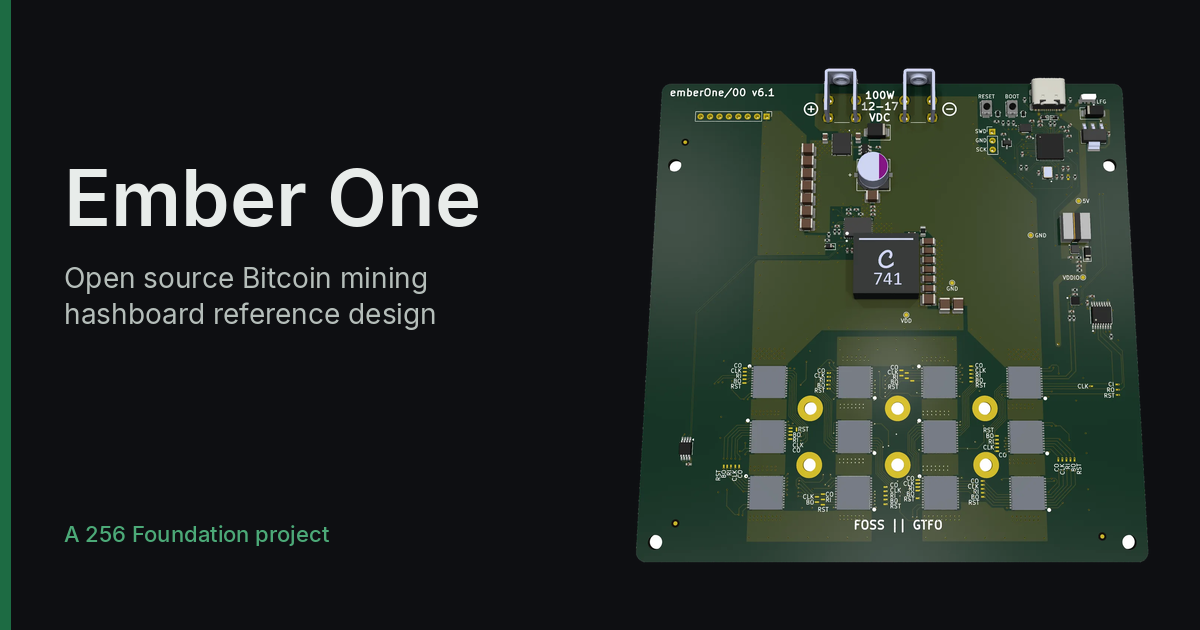
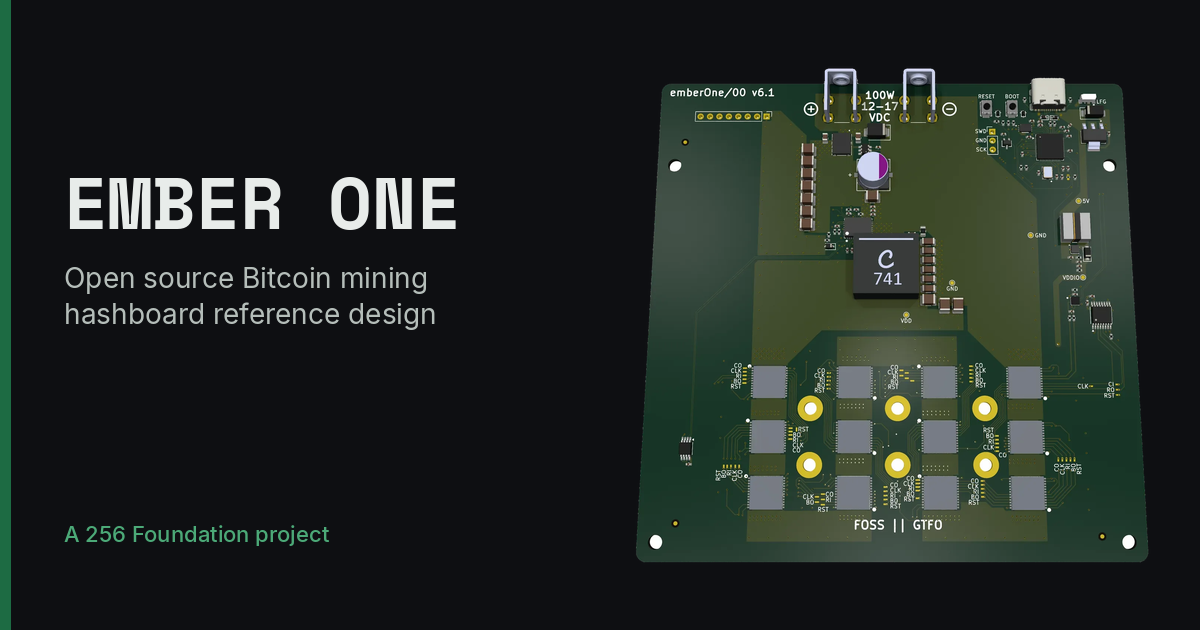
style: set the project name to EMBER ONE in titles
Use the uppercase name in the hero, the nav title, headings,
the document title, and the social card. Running prose keeps
"Ember One".

Changed region(s): [[0.0617, 0.2714, 0.4008, 0.3619]]

diff --git a/.vitepress/theme/custom.css b/.vitepress/theme/custom.css
@@ -70,11 +70,9 @@
   --ember-hero-tint: rgba(76, 170, 120, 0.08);
 }
 
-/* Wordmark: Space Mono Bold on the hero name only. "Ember One"
-   is longer than a one-word name, so the size stays under the
-   width of the text column. Tracking stays at the font's own
-   rhythm; the face is monospace and does not want Inter's tight
-   tracking. */
+/* Wordmark: Space Mono Bold on the hero name only. The text is
+   "EMBER ONE", not a CSS transform, so the same casing is in the
+   HTML. Tracking stays at the font's own rhythm. */
 .VPHome .VPHero .name.clip {
   font-family: "Space Mono", ui-monospace, SFMono-Regular, Menlo, monospace;
   font-weight: 700;

diff --git a/AGENTS.md b/AGENTS.md
@@ -75,7 +75,9 @@ in the design repos.
 - Status is plain declaratives, a "current as of" date, and no
   promised dates.
 - The words "honest" and "honestly" do not appear in site copy.
-- Spell the project "Ember One" and the board "EmberOne/00".
+- Spell the project "EMBER ONE" in the hero, the nav title, the
+  site and social title, and any heading. Running prose keeps
+  "Ember One". Spell the board "EmberOne/00".
 - Never say Mujina was "ported" to the board. A driver for the
   board is added to Mujina.
 - When a page mentions Telehash, say the stack demonstrated

diff --git a/explanation/status.md b/explanation/status.md
@@ -1,4 +1,4 @@
-# Where Ember One Is Today
+# Where EMBER ONE Is Today
 
 Ember One is a published reference design. Boards have been built
 and have run real hashrate. This page says what is in hand, what
@@ -60,7 +60,7 @@ run real hashrate, stands either way.
 - Boards for sale from the 256 Foundation. The Foundation does not
   manufacture or sell Ember One.
 
-## Is Ember One for you yet?
+## Is EMBER ONE for you yet?
 
 **Read or build on the design: the files are published.** Start
 with [Design files](/reference/design-files) and

diff --git a/index.md b/index.md
@@ -2,7 +2,7 @@
 layout: home
 
 hero:
-  name: Ember One
+  name: EMBER ONE
   text: Open source Bitcoin mining hashboard reference design
   tagline: >-
     Published PCB files, bill of materials, and interface, for anyone
@@ -48,7 +48,7 @@ features:
     linkText: Design files
 ---
 
-## What is Ember One?
+## What is EMBER ONE?
 
 Ember One is an open-source reference design for a Bitcoin mining
 hashboard. A hashboard is the circuit board that hosts ASIC chips

diff --git a/explanation/why-ember-one.md b/explanation/why-ember-one.md
@@ -1,4 +1,4 @@
-# Why Ember One
+# Why EMBER ONE
 
 This page is the context behind Ember One: what the project is for,
 and what it refuses to be.
